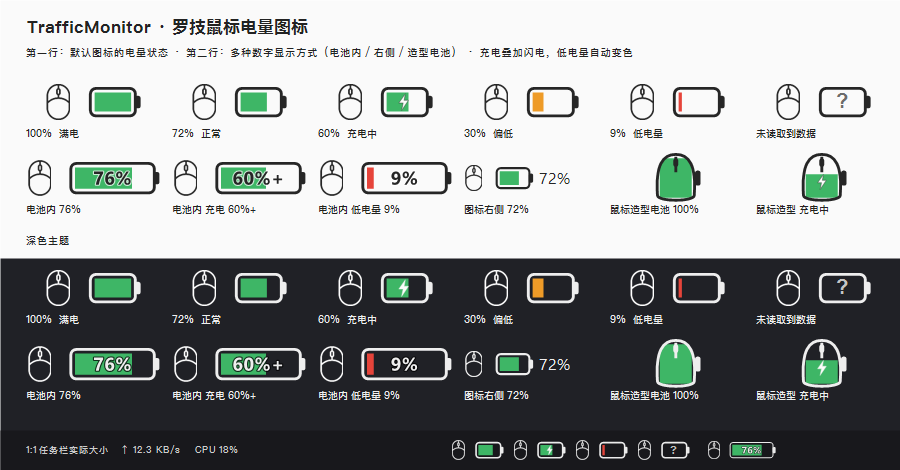
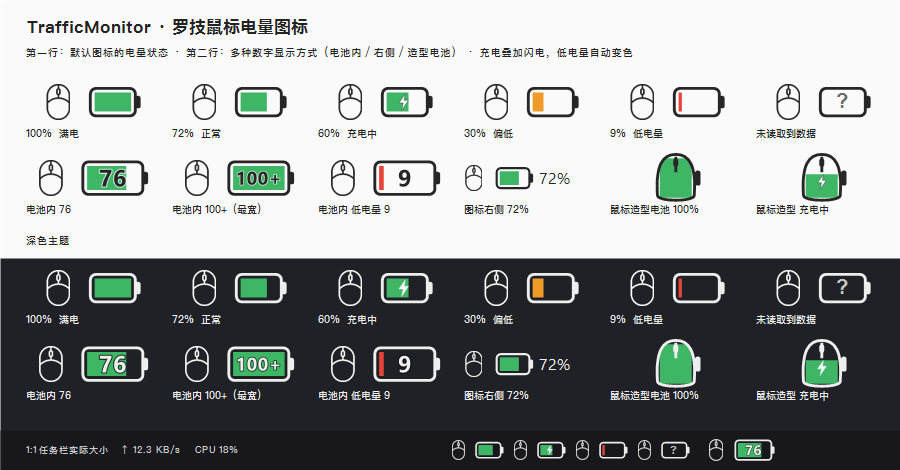
Enlarge in-battery digits, drop percent sign and shorten battery to 24x13

Changed region(s): [[0.0311, 0.7149, 0.4978, 0.8638], [0.0311, 0.3277, 0.4978, 0.4766], [0.7778, 0.9234, 0.8711, 0.983]]

diff --git a/src/battery_icon.cpp b/src/battery_icon.cpp
@@ -146,7 +146,7 @@ namespace {
         }
     }
 
-    // 电池内百分比：文字用主题色，描边取反色。
+    // 电池内数值：文字用主题色，描边取反色。
     // 这样浅色主题是「黑字+白描边」、深色主题是「白字+黑描边」，
     // 无论压在绿色/红色填充上还是落在空电池区域都清晰。
     void DrawBatteryNumber(Gdiplus::Graphics& g, const Gdiplus::RectF& box,
@@ -156,14 +156,17 @@ namespace {
         Gdiplus::StringFormat sf;
         sf.SetAlignment(Gdiplus::StringAlignmentCenter);
         sf.SetLineAlignment(Gdiplus::StringAlignmentCenter);
+        // 常见两位数用最大字号，三/四位（如 100、100+）自动收紧，避免「+」被裁掉
+        const int n = (int)wcslen(text);
+        const float em = (n >= 4) ? 7.4f * s : (n == 3) ? 8.6f * s : 9.5f * s;
         if (path.AddString(text, -1, &family, Gdiplus::FontStyleBold,
-                           7.6f * s, box, &sf) != Gdiplus::Ok) return;
+                           em, box, &sf) != Gdiplus::Ok) return;
         const int lum = (ink.GetR() * 299 + ink.GetG() * 587 + ink.GetB() * 114) / 1000;
         Gdiplus::Color edge_col = (lum > 128)
             ? Gdiplus::Color(190, 0, 0, 0)          // 亮色文字 → 深色描边
             : Gdiplus::Color(190, 255, 255, 255);   // 暗色文字 → 亮色描边
         Gdiplus::SolidBrush fill(ink);
-        Gdiplus::Pen edge(edge_col, 0.9f * s);
+        Gdiplus::Pen edge(edge_col, (std::max)(0.6f * s, em * 0.085f));
         edge.SetLineJoin(Gdiplus::LineJoinRound);
         // 先描边再填字：描边在底层，不会侵蚀笔画，浅色主题下细笔画才不发灰
         g.DrawPath(&edge, &path);
@@ -182,9 +185,9 @@ namespace {
 
         const float mh = 14.5f * s * mouse_scale;   // 默认略高于电池（11*s），比上一版 13*s 放大一点
         const float mw = mh * (float)kMouseW / (float)kMouseH;   // 保持原图宽高比
-        // 电池内要放数字就得加宽加高，否则 18*11 的空间塞不下「100%+」
-        const float bw = (number_inside ? 34.f : 18.f) * s;
-        const float bh = (number_inside ? 12.f : 11.f) * s;
+        // 只显示纯数字（不带 %），电池不用太长；24*13 配合自适应字号足以放下「100+」
+        const float bw = (number_inside ? 24.f : 18.f) * s;
+        const float bh = (number_inside ? 13.f : 11.f) * s;
         const float cap_w = 2.4f * s, cap_h = 5.f * s;
 
         const float mx = left + 1.5f * s;
@@ -225,7 +228,7 @@ namespace {
             if (!st.valid || st.percent < 0)
                 swprintf_s(txt, L"?");
             else
-                swprintf_s(txt, L"%d%%%s",
+                swprintf_s(txt, L"%d%s",   // 不带 %：省下两个字符，数字能放大一号
                            (std::min)(100, (std::max)(0, st.percent)),
                            st.charging ? L"+" : L"");
             DrawBatteryNumber(g, box, txt, s, ink);
@@ -314,7 +317,7 @@ namespace {
             w = 22.f;
         } else {
             const float mouse_w = 14.5f * opt.mouse_scale * (float)kMouseW / (float)kMouseH;
-            const float battery_w = opt.number_inside ? 34.f : 18.f;
+            const float battery_w = opt.number_inside ? 24.f : 18.f;
             w = std::ceil(1.5f + mouse_w + (float)opt.gap + battery_w + 2.4f + 1.5f);
         }
         if (opt.show_text) w += 36.f;

diff --git a/probe/preview.cpp b/probe/preview.cpp
@@ -66,9 +66,9 @@ int main() {
         { L"未读取到数据",       -1, false, false, 0, false, L"" },
     };
     const Case cases2[] = {
-        { L"电池内 76%",         76, false, true,  0, false, L"", true },
-        { L"电池内 充电 60%+",   60, true,  true,  0, false, L"", true },
-        { L"电池内 低电量 9%",    9, false, true,  0, false, L"", true },
+        { L"电池内 76",          76, false, true,  0, false, L"", true },
+        { L"电池内 100+（最宽）", 100, true, true, 0, false, L"", true },
+        { L"电池内 低电量 9",     9, false, true,  0, false, L"", true },
         { L"图标右侧 72%",       72, false, true,  0, true,  L"72%" },
         { L"鼠标造型电池 100%", 100, false, true,  1, false, L"" },
         { L"鼠标造型 充电中",    60, true,  true,  1, false, L"" },

diff --git a/src/LogiBatteryPlugin.cpp b/src/LogiBatteryPlugin.cpp
@@ -327,7 +327,7 @@ void CLogiBatteryPlugin::EnsureConfigKeys() const {
 
     struct Def { const char* key; const wchar_t* block; };
     static const Def defs[] = {
-        { "display_mode=", L"; 显示模式：0=仅图标 1=图标+右侧数字 2=纯文字 3=电池内显示百分比\ndisplay_mode=0\n" },
+        { "display_mode=", L"; 显示模式：0=仅图标 1=图标+右侧数字 2=纯文字 3=电池内显示电量数值\ndisplay_mode=0\n" },
         { "icon_style=",   L"; 图标样式：0=鼠标图标+横向电池 1=鼠标造型电池\nicon_style=0\n" },
         { "mouse_gap=",    L"; 鼠标图标与电池之间的留白（像素，8 约等于一个空格，范围 0~32）\nmouse_gap=8\n" },
         { "mouse_scale=",  L"; 鼠标图标大小（%，100 = 默认 14.5 px 高，范围 50~150）\nmouse_scale=100\n" },

diff --git a/src/OptionsDialog.cpp b/src/OptionsDialog.cpp
@@ -222,7 +222,7 @@ namespace {
             c->h_mode = AddCtl(c, L"COMBOBOX", L"", CBS_DROPDOWNLIST | WS_VSCROLL,
                                92, 190, 362, 100, ID_MODE);
             AddComboItem(c->h_mode, L"仅图标（任务栏上无文字）");
-            AddComboItem(c->h_mode, L"电池内显示百分比（电池自动加宽）");
+            AddComboItem(c->h_mode, L"电池内显示电量数值（纯数字，无 % 号）");
             AddComboItem(c->h_mode, L"图标右侧显示百分比");
             AddComboItem(c->h_mode, L"纯文字（标签 + 数值）");
             SendMessageW(c->h_mode, CB_SETCURSEL, (WPARAM)IndexFromMode(c->v.display_mode), 0);

diff --git a/README.md b/README.md
@@ -13,7 +13,7 @@
 | | |
 |---|---|
 | 纯图标 | 任务栏上一个字都没有；鼠标线稿 + 手机电池式电量条 |
-| 四种数字方式 | 不显示 / **电池内显示百分比** / 图标右侧显示 / 纯文字，随时在设置窗口切换 |
+| 四种数字方式 | 不显示 / **电池内显示电量数值** / 图标右侧显示 / 纯文字，随时在设置窗口切换 |
 | 一眼看懂 | 电量从左往右填充，>35% 绿 / 15~35% 橙 / ≤15% 红，充电中叠加闪电 |
 | 实时读取 | HID++ 2.0 特性 `0x1000` → `0x1004` → `0x1001` → 1.0 寄存器四级回退，覆盖新老设备 |
 | 主题适配 | 鼠标线条跟随主程序文字色，浅色黑线 / 深色白线；DPI 自适应 |
@@ -38,16 +38,16 @@
 
 不需要手改配置文件。窗口里：
 
-选「电池内显示百分比」时，电池会自动加宽并在内部显示数值：
+选「电池内显示电量数值」时，电池内直接显示放大的纯数字（不带 `%` 号）：
 
-![电池内显示百分比](docs/options_dialog_inside.png)
+![电池内显示电量数值](docs/options_dialog_inside.png)
 
 | 控件 | 作用 |
 |---|---|
 | 预览区 | 浅色 / 深色主题各一行，拖动滑块立即看到效果 |
 | 鼠标大小 | 50~150%，默认 100%（约 14.5 px 高） |
 | 图标间距 | 0~24 px，默认 8（约一个空格宽） |
-| 显示模式 | 仅图标 / **电池内显示百分比** / 图标右侧显示百分比 / 纯文字，共 4 种 |
+| 显示模式 | 仅图标 / **电池内显示电量数值** / 图标右侧显示百分比 / 纯文字，共 4 种 |
 | 图标样式 | 鼠标 + 横向电池 / 鼠标造型电池 |
 | 设备数量 | 1~3 个 |
 | **应用** | 立即写回并刷新任务栏，**窗口不关闭**，可反复调整 |
@@ -62,7 +62,7 @@
 
 | 键 | 默认 | 说明 |
 |---|---|---|
-| `display_mode` | `0` | 0 仅图标 / 1 图标右侧数字 / 2 纯文字 / **3 电池内显示百分比** |
+| `display_mode` | `0` | 0 仅图标 / 1 图标右侧数字 / 2 纯文字 / **3 电池内显示电量数值** |
 | `icon_style` | `0` | 0 鼠标+电池 / 1 鼠标造型电池 |
 | `mouse_scale` | `100` | 鼠标图标大小（%），50~150 |
 | `mouse_gap` | `8` | 鼠标与电池的留白（px @96 DPI），0~32 |
@@ -112,7 +112,7 @@ Visual Studio 手动建工程：把 `src` 下所有 `.cpp/.h` 加进「动态链
 
 **图标一直是问号？** 接收器没插、设备关机/休眠，或设备不上报电池。先看悬停提示；首次启动前 2~3 秒也是问号。
 
-**能把百分比直接显示在电池里吗？** 可以。设置窗口「显示模式」选「电池内显示百分比」，或 ini 设 `display_mode=3`。电池会自动加宽以容纳 `100%+`；充电时数字带 `+`，读不到数据显示 `?`，数字带描边以保证深浅主题和不同填充色下都清晰。
+**能把百分比直接显示在电池里吗？** 可以。设置窗口「显示模式」选「电池内显示电量数值」，或 ini 设 `display_mode=3`。为了在任务栏上看得清，只显示**纯数字不带 `%`**（如 `76`），电池适度加宽到 24×13 px；数字按位数自适应字号，充电时带 `+`（如 `60+`），读不到数据显示 `?`，并带反色描边保证深浅主题下都清晰。
 
 **和 G HUB 冲突吗？** 不冲突，实测可同时读取。
 

diff --git a/docs/TECHNICAL.md b/docs/TECHNICAL.md
@@ -34,7 +34,7 @@
 | `0` | **仅图标（默认）**。任务栏上完全没有文字，最省空间 |
 | `1` | 图标 + 右侧百分比数字（如 `76%+`，加号代表充电中） |
 | `2` | 纯文字（`鼠标电量 76%`），退回主程序绘制，不使用图标 |
-| `3` | **电池内显示百分比**。电池自动加宽到 34×12 px（96 DPI），数字画在电池内部 |
+| `3` | **电池内显示电量数值**。电池 24×13 px（96 DPI），内部画放大的纯数字（无 `%` 号） |
 
 设置窗口的下拉顺序是「仅图标 / 电池内 / 右侧 / 纯文字」，通过 `kModeValues[]` 映射到 `0/3/1/2`，这样新选项能排在顺手的位置，同时保持旧配置文件里 0/1/2 的语义不变。
 
@@ -207,7 +207,7 @@ docs/options_dialog_inside.png   设置窗口：电池内数字模式
 - 鼠标和电池之间的留白由 `mouse_gap` 决定（默认 8 px，约一个空格），`BaseWidth()` 会把它算进自绘区域宽度
 - `icon_style=1` 不用 PNG 素材，改用三段贝塞尔曲线画水滴形外壳并自下而上填充
 - 电池是圆角矩形 + 右侧实心正极；填充用 `SetClip(电池路径)` 裁剪，保证圆角内不会溢出
-- `display_mode=3` 时电池从 `18×11` 放大到 `34×12`（单位 `s`），用 `GraphicsPath::AddString` 画居中的粗体百分比。文字取主题色 `ink`，描边按 `ink` 亮度取反色（浅色主题黑字白边 / 深色主题白字黑边）；**先 `DrawPath` 描边、再 `FillPath` 填字**，否则描边会压在笔画上让细字发灰。这样压在绿色/红色填充或落在空电池区域都有对比度。充电时文字追加 `+`，无数据显示 `?`，并且不再画闪电/问号避免拥挤；`BaseWidth()` 会同步把电池宽度算进去
+- `display_mode=3` 时电池从 `18×11` 变为 `24×13`（单位 `s`），用 `GraphicsPath::AddString` 画居中的粗体**纯数字**（不带 `%`，省字符换更大的字号）。字号按 `wcslen(text)` 自适应：1~2 位 `9.5*s`、3 位 `8.6*s`、4 位（`100+`）`7.4*s`，描边宽度也随之取 `em*0.085`，避免极端情况把 `+` 裁掉。文字取主题色 `ink`，描边按 `ink` 亮度取反色（浅色主题黑字白边 / 深色主题白字黑边）；**先 `DrawPath` 描边、再 `FillPath` 填字**，否则描边会压在笔画上让细字发灰。充电时文字追加 `+`，无数据显示 `?`，并且不再画闪电/问号避免拥挤；`BaseWidth()` 会同步把电池宽度算进去
 - 宽度由 `GetItemWidth()`（96 DPI 基准，主程序放大）和 `GetItemWidthEx()`（实际像素）共同给出；`Draw()` 还会按传入的 `w`/`h` 自适应缩放，主程序用逻辑坐标还是物理坐标都不会被裁切
 - GDI+ 首次使用时才初始化（函数内静态对象），**不在 `DllMain` 里调用**，避免 loader lock 问题；万一初始化失败会退化成 GDI 画的简版电池
 

diff --git a/CHANGELOG.md b/CHANGELOG.md
@@ -2,11 +2,12 @@
 
 ## 1.3.0
 
-- **新增「电池内显示百分比」**：`display_mode=3`，或设置窗口「显示模式」里选第二项
+- **新增「电池内显示电量数值」**：`display_mode=3`，或设置窗口「显示模式」里选第二项
 - 数字显示现在共 4 种可选：仅图标 / 电池内 / 图标右侧 / 纯文字；下拉顺序做了映射，旧的 0/1/2 语义不变，老配置不会串档
-- 电池内模式下电池自动加宽加高（34×12 px @96 DPI），数字用**主题色文字 + 反色描边**（浅色主题黑字白边 / 深色主题白字黑边），并采用「先描边、后填字」保证笔画不被侵蚀；绿色/红色填充与空电池区域下都清晰
-- 充电时数字带 `+`（如 `60%+`），读不到数据显示 `?`；该模式不再叠闪电/问号，避免拥挤
-- `BaseWidth()` 随模式自适应，任务栏不会被裁切；设置窗口实时预览同步支持新模式
+- 电池内只显示**纯数字不带 `%`**（如 `76`），字号加大到 9.5 px 并按位数自适应（两位数最大，三/四位自动收紧，保证 `100+` 不裁切）；电池仅 24×13 px（96 DPI），不会变成一条长条
+- 数字用**主题色文字 + 反色描边**（浅色主题黑字白边 / 深色主题白字黑边），采用「先描边、后填字」保证笔画不被侵蚀；绿色/红色填充与空电池区域下都清晰
+- 充电时数字带 `+`（如 `60+`），读不到数据显示 `?`；该模式不再叠闪电/问号，避免拥挤
+- `BaseWidth()` 随模式自适应（该模式 47 px），任务栏不会被裁切；设置窗口实时预览同步支持新模式
 - 预览图第二行改为集中展示多种数字显示方式，并加入 1:1 的电池内数字示例
 
 ## 1.2.0
